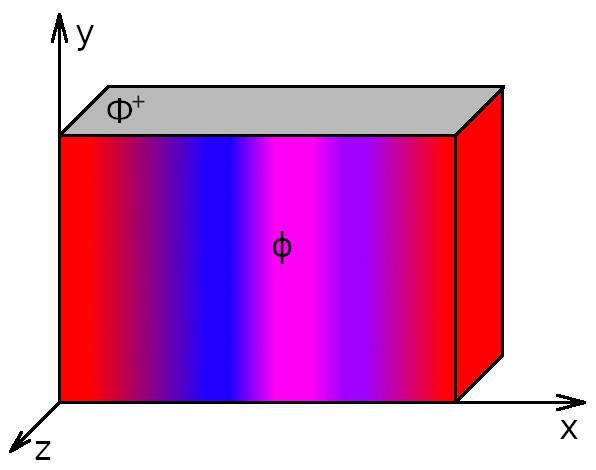
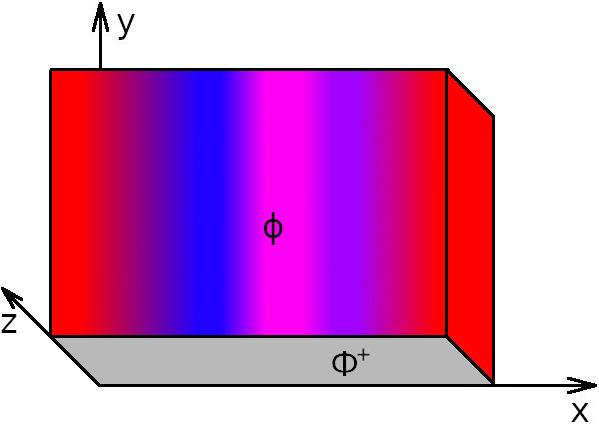
Minor corrections

diff --git a/presentations/2026/june_defence/sources/stability.tex b/presentations/2026/june_defence/sources/stability.tex
@@ -7,20 +7,22 @@
 Работа \cite{ponomarev_stability}
 \vspace{1mm}
 \begin{itemize}
-	\item $\phi(\vx, 0) = \phi_0(\vx) = \phi_0(x)$, $\epsilon_0(\vx) = \epsilon_0(x)$ не зависят от $y$ и $z$
-	\item $\Phi|_{y = 0} = \Phi^- \in \Real$, $\Phi|_{y = h} = \Phi^+ \in \Real$
+	\item $\Phi|_{y = 0} = \Phi^+ = \Const$, $\Phi|_{y = H} = 0$;
+	\item $\phi(\vx, 0) = \phi_0(\vx) = \phi_0(x)$, $\epsilon_0(\vx) = \epsilon_0(x)$ не зависят от $y$ и $z$;
+	\item $\rho(\vx, 0) = \rho_0(\vx) = 0$
 \end{itemize}
 \vspace{1mm}
-Функция электрического потенциала известна аналитически:
+Функции электрического потенциала и заряда известны:
 \begin{columns}
 \column{0.65\textwidth}
-\vspace{-4mm}
-\[
-	\Phi(\vx, t) = \Phi^- \hm + \cfrac{y}{h}(\Phi^+ - \Phi^-), \quad E = \| \nabla \Phi \| = \Const.
-\]
+\vspace{-3mm}
+\begin{gather*}
+	\Phi(\vx, t) = \Phi^+ \cdot (1 - y / H), \quad E = \| \nabla \Phi \| = \Const; \\
+	\rho \equiv 0.
+\end{gather*}
 \raggedleft
 \begin{minipage}{0.98\textwidth}
-\vspace{-2mm}
+\vspace{-4mm}
 \begin{block}{Уравнение фазового поля $\phi$}
 	\[
 		\cfrac{1}{m} \partt{\phi} = \half E^2 \epsilon'(\phi) + \cfrac{\Gamma}{l^2} f'(\phi) + \half \Gamma \cfrac{\partial^2 \phi}{\partial x^2}
@@ -31,8 +33,8 @@
 \column{0.35\textwidth}
 \begin{figure}
 	\vspace*{-18mm}
-	\hspace*{2mm}
-	\includegraphics[width=0.93\textwidth]{figures/one_dim_problem.jpg}
+	\hspace*{1mm}
+	\includegraphics[width=\textwidth]{figures/one_dim_problem.jpg}
 \end{figure}
 \end{columns}
 \end{frame}
@@ -127,59 +129,35 @@
 
 \begin{frame}{Разностная схема}
 \begin{block}{Разностная задача}
-	$$\cfrac{1}{m} \cfrac{\phi_i^{j + 1} - \phi_i^j}{\tau} = \half E_\phi^2 \epsilon'(\phi_i^j) + \cfrac{\Gamma}{l^2} f'(\phi_i^j) + \cfrac{\Gamma}{2} \cfrac{\phi_{i + 1}^j - 2 \phi_i^j + \phi_{i - 1}^j}{h^2}$$
-	$$\phi_i^0 = \phi_0(ih); \quad \phi_0^j = \phi_l(j \tau); \quad \phi_n^j = \phi_r(j \tau)$$
+	\begin{gather*}
+		\cfrac{1}{m} \cfrac{\phi_j^{k + 1} - \phi_j^k}{\tau} = \half (E^k)^2 \epsilon'(\phi_j^k) + \cfrac{\Gamma}{l^2} f'(\phi_j^k) + \cfrac{\Gamma}{2} \cfrac{\phi_{j + 1}^k - 2 \phi_j^k + \phi_{j - 1}^k}{h^2}; \\
+		\phi_j^0 = \phi_0(jh), \quad \phi_0^k = \phi_l(k \tau), \quad \phi_M^k = \phi_r(k \tau); \\
+		E^k = E \quad \text{либо} \quad E^k = \cfrac{[q^+]^k}{h} \left[ \sum\limits_{j = 0}^{M} \epsilon(\phi_j^k) \right]^{-1}.
+	\end{gather*}
 	Сетка регулярная; $\tau$ -- шаг по времени, $h$ -- шаг по пространству.
 \end{block}
 \vspace{1mm}
-Явная разностная схема первого порядка по времени, второго -- по пространству.
+Явная схема первого порядка по времени, второго по пространству.
 \end{frame}
 
 
-\begin{frame}{Оценка устойчивости}
+\begin{frame}{Оценки устойчивости схемы}
 \begin{center}
 \begin{minipage}{0.95\textwidth}
-\begin{block}{Условие устойчивости}
-	$$\tau \leqslant \cfrac{1}{2 m} \left( \cfrac{E^2 \epsilon_0}{\delta^{5/3}} + \cfrac{\Gamma}{h^2} \right)^{-1}$$
+\begin{block}{Постоянный потенциал на обкладках}
+	\[
+		\tau \leqslant \cfrac{1}{m} \min \left( \cfrac{h^2}{2 \Gamma}, \cfrac{\delta^{5/3}}{3 E^2 \epsilon_0} \right).
+	\]
 \end{block}
-\begin{block}{Упрощенное условие устойчивости}
-	$$\tau \leqslant \cfrac{1}{4 m} \min \left(\cfrac{\delta^{5/3}}{E^2 \epsilon_0}, \; \cfrac{h^2}{\Gamma} \right)$$
+\begin{block}{Постоянный заряд на обкладках}
+	\[
+		\tau \leqslant \cfrac{1}{m} \min \left[ \cfrac{h^2}{2 \Gamma}, \cfrac{\epsilon_0 L^2}{(q^+)^2} \max \left( \cfrac{\delta^{5/3}}{3}, \cfrac{h^2}{14 L^2} \right) \right].
+	\]
 \end{block}
 \end{minipage}
 \end{center}
-Оценка получена применением спектрального признака устойчивости \\ в окрестности $\phi = 0$.
-\end{frame}
-
-
-\begin{frame}{Вычисления: типичное решение}
-\vspace{-0.4cm}
-\begin{columns}
-\column{0.88\textwidth}
-\begin{figure}
-	\includegraphics[width=\textwidth]{figures/typical_solution.png}
-\end{figure}
-\column{0.12\textwidth}
-\hfill \\
-\vspace{3.5cm}
-\hspace{-2.5cm}
-Узлов по измерениям: \\
-\hspace{-2.5cm}
-$N_x = 10^3$, $N_t = 10^5$
-\end{columns}
-\end{frame}
-
-
-\begin{frame}{Вычисления: проверка устойчивости}
-\vspace{-0.4cm}
-\begin{columns}
-\column{0.7\textwidth}
-\begin{figure}
-	\includegraphics[width=\textwidth]{figures/stability_bounds.png}
-\end{figure}
-\column{0.3\textwidth}
-\hspace{1mm} Условие устойчивости:
-\[
-	\tau \leqslant \cfrac{1}{2m} \left( \cfrac{E^2 \epsilon_0}{\delta^{5/3}} + \cfrac{\Gamma}{h^2} \right)^{-1}
-\]
-\end{columns}
+\begin{itemize}
+	\item $L$ -- размер области $\clOmega$ вдоль оси $x$. \\
+	\item Оценки получены применением спектрального признака устойчивости \\ в окрестности $\phi = 0$.
+\end{itemize}
 \end{frame}

diff --git a/presentations/2026/june_defence/sources/adaptation.tex b/presentations/2026/june_defence/sources/adaptation.tex
@@ -44,22 +44,6 @@
 \end{frame}
 
 
-\begin{frame}{Граничные условия}
-\centering
-Кубический образец диэлектрика, зажатый между двумя проводящими пластинами. \\[5mm]
-\begin{tabular}{{%
-    >{\centering\arraybackslash}m{60mm}%
-    >{\centering\arraybackslash}m{60mm}%
-}}
-	Обкладки сверху и снизу: & Боковая граница $\partial \Omega$: \\[1mm]
-	\cellcentered{12mm}{\centering $\Phi|_{z = 0} = \Phi^+; \; \Phi|_{z = L} = \Phi^-$} &
-	\cellcentered{12mm}{\centering $\partvn{\Phi}\bigg|_{\partial \Omega} = 0$} \\
-	\cellcentered{12mm}{\centering $\cfrac{\partial \phi}{\partial z}\bigg|_{z = 0} = \cfrac{\partial \phi}{\partial z}\bigg|_{z = L} = 0$} &
-	\cellcentered{12mm}{\centering $\phi|_{\partial \Omega} = 1$}
-\end{tabular}
-\end{frame}
-
-
 \begin{frame}{Расчет №1: <<иголка>>}
 \vspace{-5mm}
 \begin{figure}
@@ -132,9 +116,9 @@
 	&& \\[-1.5mm]
 	\hline
 	&& \\[-3mm]
-	<<иголка>>				& $6.67$		& $> 43$	\\[1mm]
+	<<иголка>>				& $6.67$		& $105.12$	\\[1mm]
 	&& \\[-3mm]
-	случайные возмущения	& $5.09$		& $> 34$	\\[1mm]
+	случайные возмущения	& $5.09$		& $38.2$	\\[1mm]
 	\hline
 \end{tabular}
 \end{center}

diff --git a/presentations/2026/june_defence/main.tex b/presentations/2026/june_defence/main.tex
@@ -126,7 +126,7 @@
 }
 
 \institute[ИПМ, МФТИ]{}
-\date[Предзащита]{}
+\date[Магистерская диссертация]{}
 \logo{\includegraphics[height=0.8cm]{../figures/labels.jpg}}
 
 
@@ -164,6 +164,7 @@
 \large
 \parind Исследовано:
 \begin{itemize}
+	\item соотношения баланса энергии;
 	\item устойчивость положений равновесия (в частности, неповрежденной среды);
 	\item особенности стационарных решений обобщенной задачи;
 	\item адаптация расчетного шага по времени.

diff --git a/presentations/2026/june_defence/sources/introduction.tex b/presentations/2026/june_defence/sources/introduction.tex
@@ -44,6 +44,7 @@
 \end{block}
 \begin{itemize}
     \item $m$, $\Gamma$, $l$, $\beta$ -- параметры модели, константы
+    \item $F(\phi; \| \nabla \Phi \|)$ -- определенная нелинейная функция
 \end{itemize}
 \end{frame}
 
@@ -80,7 +81,7 @@
             \node at (.95, .15) {$x$};
             \node at (.21, .95) {$y$};
             \node at (.03, .1) {$z$};
-            \node at (.52, .148) {\small $\Phi = \Phi^+(t); \quad \partvn{\phi} = 0$};
+            \node at (.523, .148) {\small $\Phi = \Phi^+(t); \quad \partvn{\phi} = 0$};
             \node at (.6, .93) {$\Phi = 0; \quad \partvn{\phi} = 0$};
             \node at (.0, .5) {$\partvn{\Phi} = 0;$};
             \node at (.015, .38) {$\phi = 1$};

diff --git a/presentations/2026/june_defence/sources/generalization.tex b/presentations/2026/june_defence/sources/generalization.tex
@@ -68,7 +68,7 @@
 \end{itemize}
 \vspace{1mm}
 \[
-    \cfrac{1}{m} \partt{\phi} = \half \epsilon'(\phi) \gradsq{\Phi} + \cfrac{\Gamma}{l^2} f'(\phi) + \half \Gamma \Delta \phi - \alpha \cfrac{\Gamma l^2}{4} \bilapl{\phi} + \beta \Gamma l^{p - 2} \plapl{\phi}{p - 2}
+    \cfrac{1}{m} \partt{\phi} = -F'(\phi; \| \nabla \Phi \|) + \half \Gamma \Delta \phi - \alpha \cfrac{\Gamma l^2}{4} \bilapl{\phi} + \beta \Gamma l^{p - 2} \plapl{\phi}{p - 2}
 \]
 \vspace{-3mm}
 \end{block}